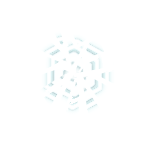
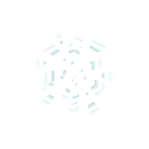
reveal map animation partial

diff --git a/js/nodeDefs.js b/js/nodeDefs.js
@@ -919,10 +919,11 @@ const NODE_DEFS = [
         effect: async function () {
             if (typeof cinematicManager !== 'undefined') {
                 const endCutscene = await cinematicManager.playCutscene();
-                console.log("cutscene");
+                console.log("[Cinematic] Reveal Map sequence started");
 
                 const dragGroup = upgradeTree.getDraggableGroup();
                 const node = upgradeTree.getNode('reveal_map');
+
                 if (dragGroup && node && node.btn) {
                     const refX = GAME_CONSTANTS.halfWidth * 0.5;
                     const refY = GAME_CONSTANTS.halfHeight;
@@ -931,30 +932,41 @@ const NODE_DEFS = [
                     const groupX = dragGroup.x;
                     const groupY = dragGroup.y;
 
-                    // tweenScale with no pivot keeps the group anchor fixed.
-                    // After zoom-to-1, a child's world pos = groupAnchor + (currentWorldPos - groupAnchor) / s0
                     const nodeXAfterZoom = groupX + (node.btn.x - groupX) / s0;
                     const nodeYAfterZoom = groupY + (node.btn.y - groupY) / s0;
 
-                    // Pan delta needed to bring that predicted position to the reference point
                     const panX = refX - nodeXAfterZoom;
                     const panY = refY - nodeYAfterZoom;
 
-                    // Zoom out to 1.0 slightly slower than the pan
-                    dragGroup.tweenScale(1, {
-                        ease: 'Cubic.easeInOut',
-                        duration: 1400
-                    });
-
+                    // 1. Pan and Zoom to the button
+                    dragGroup.tweenScale(1, { ease: 'Cubic.easeInOut', duration: 1400 });
                     dragGroup.tweenBy(panX, panY, {
                         ease: 'Cubic.easeInOut',
                         duration: 1400,
                         onComplete: () => {
+                            // 2. Trigger the flickering glow and explosion animation
                             if (typeof upgradeTree !== 'undefined') {
                                 upgradeTree._onSlideRightClicked(upgradeTree.SLIDE_DURATION * 2);
                             }
-                            // Wait 1.6s more to fulfill the 3s cutscene requirement (1.4 + 1.6 = 3.0)
-                            PhaserScene.time.delayedCall(1600, endCutscene);
+                            
+                            nodeAnims.playRevealMapActivationAnimation(node, () => {
+                                // 3. Sequential node revelation once explosion finishes
+                                // Stage 1: Immediate
+                                ['repeat_exploit', 'armor', 'emergency_overclock'].forEach(id => upgradeTree.revealNode(id));
+
+                                // Stage 2: 0.4s later
+                                PhaserScene.time.delayedCall(400, () => {
+                                    ['diagnostic_analytics', 'threat_response'].forEach(id => upgradeTree.revealNode(id));
+
+                                    // Stage 3: 0.4s later (total 0.8s)
+                                    PhaserScene.time.delayedCall(400, () => {
+                                        upgradeTree.revealNode('bomb_2');
+                                        
+                                        // Final Cleanup: end cutscene
+                                        PhaserScene.time.delayedCall(1200, endCutscene);
+                                    });
+                                });
+                            });
                         }
                     });
                 } else {

diff --git a/js/nodeAnims.js b/js/nodeAnims.js
@@ -194,5 +194,86 @@ const nodeAnims = {
                 pulse.destroy();
             }
         });
+    },
+
+    /**
+     * Plays the specialized multi-stage animation sequence for the Reveal Map gate.
+     * Includes a flickering glow, followed by a massive expansion explosion.
+     * 
+     * @param {Node} node - The Reveal Map node instance.
+     * @param {Function} onSequenceComplete - Callback triggered when the explosion finishes.
+     */
+    playRevealMapActivationAnimation: (node, onSequenceComplete) => {
+        if (!node.btn) return;
+
+        const scene = PhaserScene;
+        const x = node.btn.x;
+        const y = node.btn.y;
+        const nodeDepth = node.btn.depth;
+        const glowDepth = GAME_CONSTANTS.DEPTH_UPGRADE_TREE; // Behind nodes and lines
+
+        // 1. Create the flickering glow sprite
+        const glow = scene.add.sprite(x, y, 'player', 'unlock_glow.png')
+            .setDepth(glowDepth)
+            .setAlpha(0.4)
+            .setScale(0.2);
+
+        // Ensure it moves with the tree
+        const dragGroup = upgradeTree.getDraggableGroup();
+        if (dragGroup) dragGroup.add(glow);
+
+        const duration = 2100;
+        const avgValues = { scale: 0.2, alpha: 0.4 };
+
+        // Main tween for average growth
+        scene.tweens.add({
+            targets: avgValues,
+            scale: 2.0,
+            alpha: 1.0,
+            duration: duration,
+            ease: 'Linear',
+            onUpdate: () => {
+                // Apply rapid flicker/jitter
+                const flickerScale = (Math.random() - 0.5) * 0.4;
+                const flickerAlpha = (Math.random() - 0.5) * 0.5;
+
+                glow.setScale(avgValues.scale + flickerScale);
+                glow.setAlpha(Phaser.Math.Clamp(avgValues.alpha + flickerAlpha, 0.4, 1.0));
+            },
+            onComplete: () => {
+                // Glow lingers for 0.05s after animation
+                scene.time.delayedCall(50, () => {
+                    if (glow.active) glow.destroy();
+                });
+
+                // 2. Create the expansion explosion
+                const explosion = scene.add.sprite(x, y, 'player', 'unlock_explosion.png')
+                    .setDepth(nodeDepth + 10) // Render above the node
+                    .setScale(0.5)
+                    .setAlpha(1);
+
+                if (dragGroup) dragGroup.add(explosion);
+
+                // Scale expansion
+                scene.tweens.add({
+                    targets: explosion,
+                    scale: 20,
+                    ease: 'Quad.easeIn',
+                    duration: 500
+                });
+
+                // Alpha fade out
+                scene.tweens.add({
+                    targets: explosion,
+                    alpha: 0,
+                    ease: 'Linear',
+                    duration: 500,
+                    onComplete: () => {
+                        explosion.destroy();
+                        if (onSequenceComplete) onSequenceComplete();
+                    }
+                });
+            }
+        });
     }
 };

diff --git a/js/treeNode.js b/js/treeNode.js
@@ -82,6 +82,7 @@ class Node {
         this.level = 0;
         this.branchActive = true; // Tracks if this specific Shard path is active
         this.revealed = false;    // Whether this node is force-revealed by an event
+        this.revealedManually = false; // Whether this node was revealed via the revealNode API
         this.forceUnlocked = false; // Whether this node is force-unlocked by an event
 
         // Cached recursive lookups (updated in refreshState)
@@ -248,7 +249,7 @@ class Node {
         }
 
         // 1a. Check for event-based revelation/unlocking (ignored if node is already purchased, placeholders, or duo nodes)
-        this.revealed = !!(gameState.revealedNodes && gameState.revealedNodes[this.id]) && this.level === 0 && !this.isDuoBox && !this.isPlaceholder;
+        this.revealed = !!(this.revealedManually || (gameState.revealedNodes && gameState.revealedNodes[this.id])) && this.level === 0 && !this.isDuoBox && !this.isPlaceholder;
         this.forceUnlocked = !!(gameState.unlockedNodes && gameState.unlockedNodes[this.id]) && this.level === 0 && !this.isDuoBox && !this.isPlaceholder;
 
         let anyRevealed = false;

diff --git a/js/upgradeTree.js b/js/upgradeTree.js
@@ -1581,6 +1581,7 @@ const upgradeTree = (() => {
         if (!nodes[id]) return false;
         if (!gameState.revealedNodes) gameState.revealedNodes = {};
         gameState.revealedNodes[id] = true;
+        nodes[id].revealedManually = true;
         nodes[id].refreshState();
         _refreshAllNodes();
         return true;
